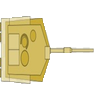
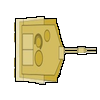
fix turret img and map

diff --git a/ClientPlayingGameState.cpp b/ClientPlayingGameState.cpp
@@ -20,7 +20,7 @@ GameState* ClientPlayingGameState::update(sf::RenderWindow& window) {
 	
 	MapSpawner ws;
 	TankSpawner ts;
-	std::ifstream map_file("Maps/lvlTest.txt");
+	std::ifstream map_file("Maps/lvl4.txt");
 
 	map_file >> map_width;
 	map_file >> map_height;
@@ -52,7 +52,7 @@ GameState* ClientPlayingGameState::update(sf::RenderWindow& window) {
 				scene.push_back(temp_ent[0]);
 				break;
 			case'd':
-				temp_ent = ws.Spawn(curr_pos, 's');
+				temp_ent = ws.Spawn(curr_pos, 'd');
 				temp_ent[0].setEntityID(i * map_width + j);
 				scene.push_back(temp_ent[0]);
 				break;
